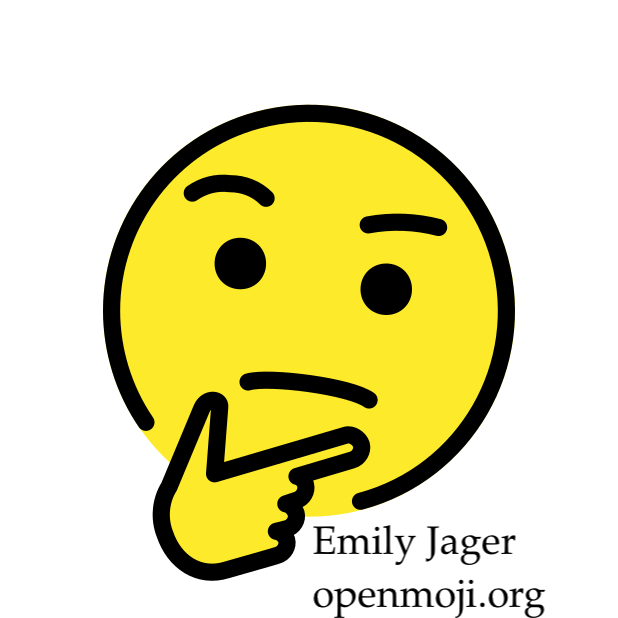
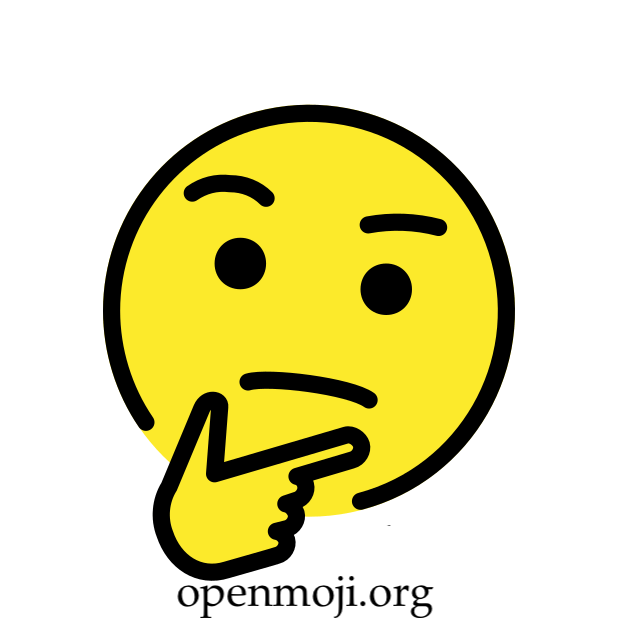
adding reflection box to other style sets

Changed region(s): [[0.2767, 0.8301, 0.8916, 1.0]]

diff --git a/style-sets/itcr/copy-to-assets/style_ITN.css b/style-sets/itcr/copy-to-assets/style_ITN.css
@@ -341,6 +341,24 @@ div.dictionary{
   background-image: url("../assets/box_images/dictionary.png");
 }
 
+div.reflection{
+  border: 4px #193a5c;
+  border-style: solid;
+  padding: 1em;
+  margin: 1em 0;
+  padding-left: 100px;
+  background-size: 90px;
+  background-repeat: no-repeat;
+  background-position: 15px center;
+  min-height: 120px;
+  background-color: #e8ebee;
+}
+
+div.reflection{
+  background-image: url("../assets/box_images/thinking_face.png");
+}
+
+
 div.rstudio-tip, div.tip, div.gotcha, div.design, div.hat{
   border: 4px #aed6d963;
   border-style: dashed solid;

diff --git a/style-sets/AnVIL/copy_to_assets/style_anvil.css b/style-sets/AnVIL/copy_to_assets/style_anvil.css
@@ -321,6 +321,23 @@ div.dictionary{
   background-image: url("../assets/box_images/dictionary.png");
 }
 
+div.reflection{
+  border: 4px #68ace5;
+  border-style: solid;
+  padding: 1em;
+  margin: 1em 0;
+  padding-left: 100px;
+  background-size: 90px;
+  background-repeat: no-repeat;
+  background-position: 15px center;
+  min-height: 120px;
+  background-color: #e8ebee;
+}
+
+div.reflection{
+  background-image: url("../assets/box_images/thinking_face.png");
+}
+
 div.rstudio-tip, div.tip, div.gotcha, div.design, div.hat{
   border: 4px #aed6d963;
   border-style: dashed solid;

diff --git a/style-sets/data-trail/copy-to-assets/style_DataTrail.css b/style-sets/data-trail/copy-to-assets/style_DataTrail.css
@@ -337,6 +337,23 @@ div.dictionary{
   background-image: url("../assets/box_images/dictionary.png");
 }
 
+div.reflection{
+  border: 4px #000000;
+  border-style: solid;
+  padding: 1em;
+  margin: 1em 0;
+  padding-left: 100px;
+  background-size: 90px;
+  background-repeat: no-repeat;
+  background-position: 15px center;
+  min-height: 120px;
+  background-color: #e8ebee;
+}
+
+div.reflection{
+  background-image: url("../assets/box_images/thinking_face.png");
+}
+
 div.rstudio-tip, div.tip, div.gotcha, div.design, div.hat{
   border: 4px #aed6d963;
   border-style: dashed solid;

diff --git a/style-sets/GDSCN/copy_to_assets/style_gdscn.css b/style-sets/GDSCN/copy_to_assets/style_gdscn.css
@@ -320,6 +320,22 @@ div.dictionary{
   background-image: url("../assets/box_images/dictionary.png");
 }
 
+div.reflection{
+  border: 4px #68ace5;
+  border-style: solid;
+  padding: 1em;
+  margin: 1em 0;
+  padding-left: 100px;
+  background-size: 90px;
+  background-repeat: no-repeat;
+  background-position: 15px center;
+  min-height: 120px;
+  background-color: #e8ebee;
+}
+
+div.reflection{
+  background-image: url("../assets/box_images/thinking_face.png");
+}
 
 div.rstudio-tip, div.tip, div.gotcha, div.design, div.hat{
   border: 4px #aed6d963;
